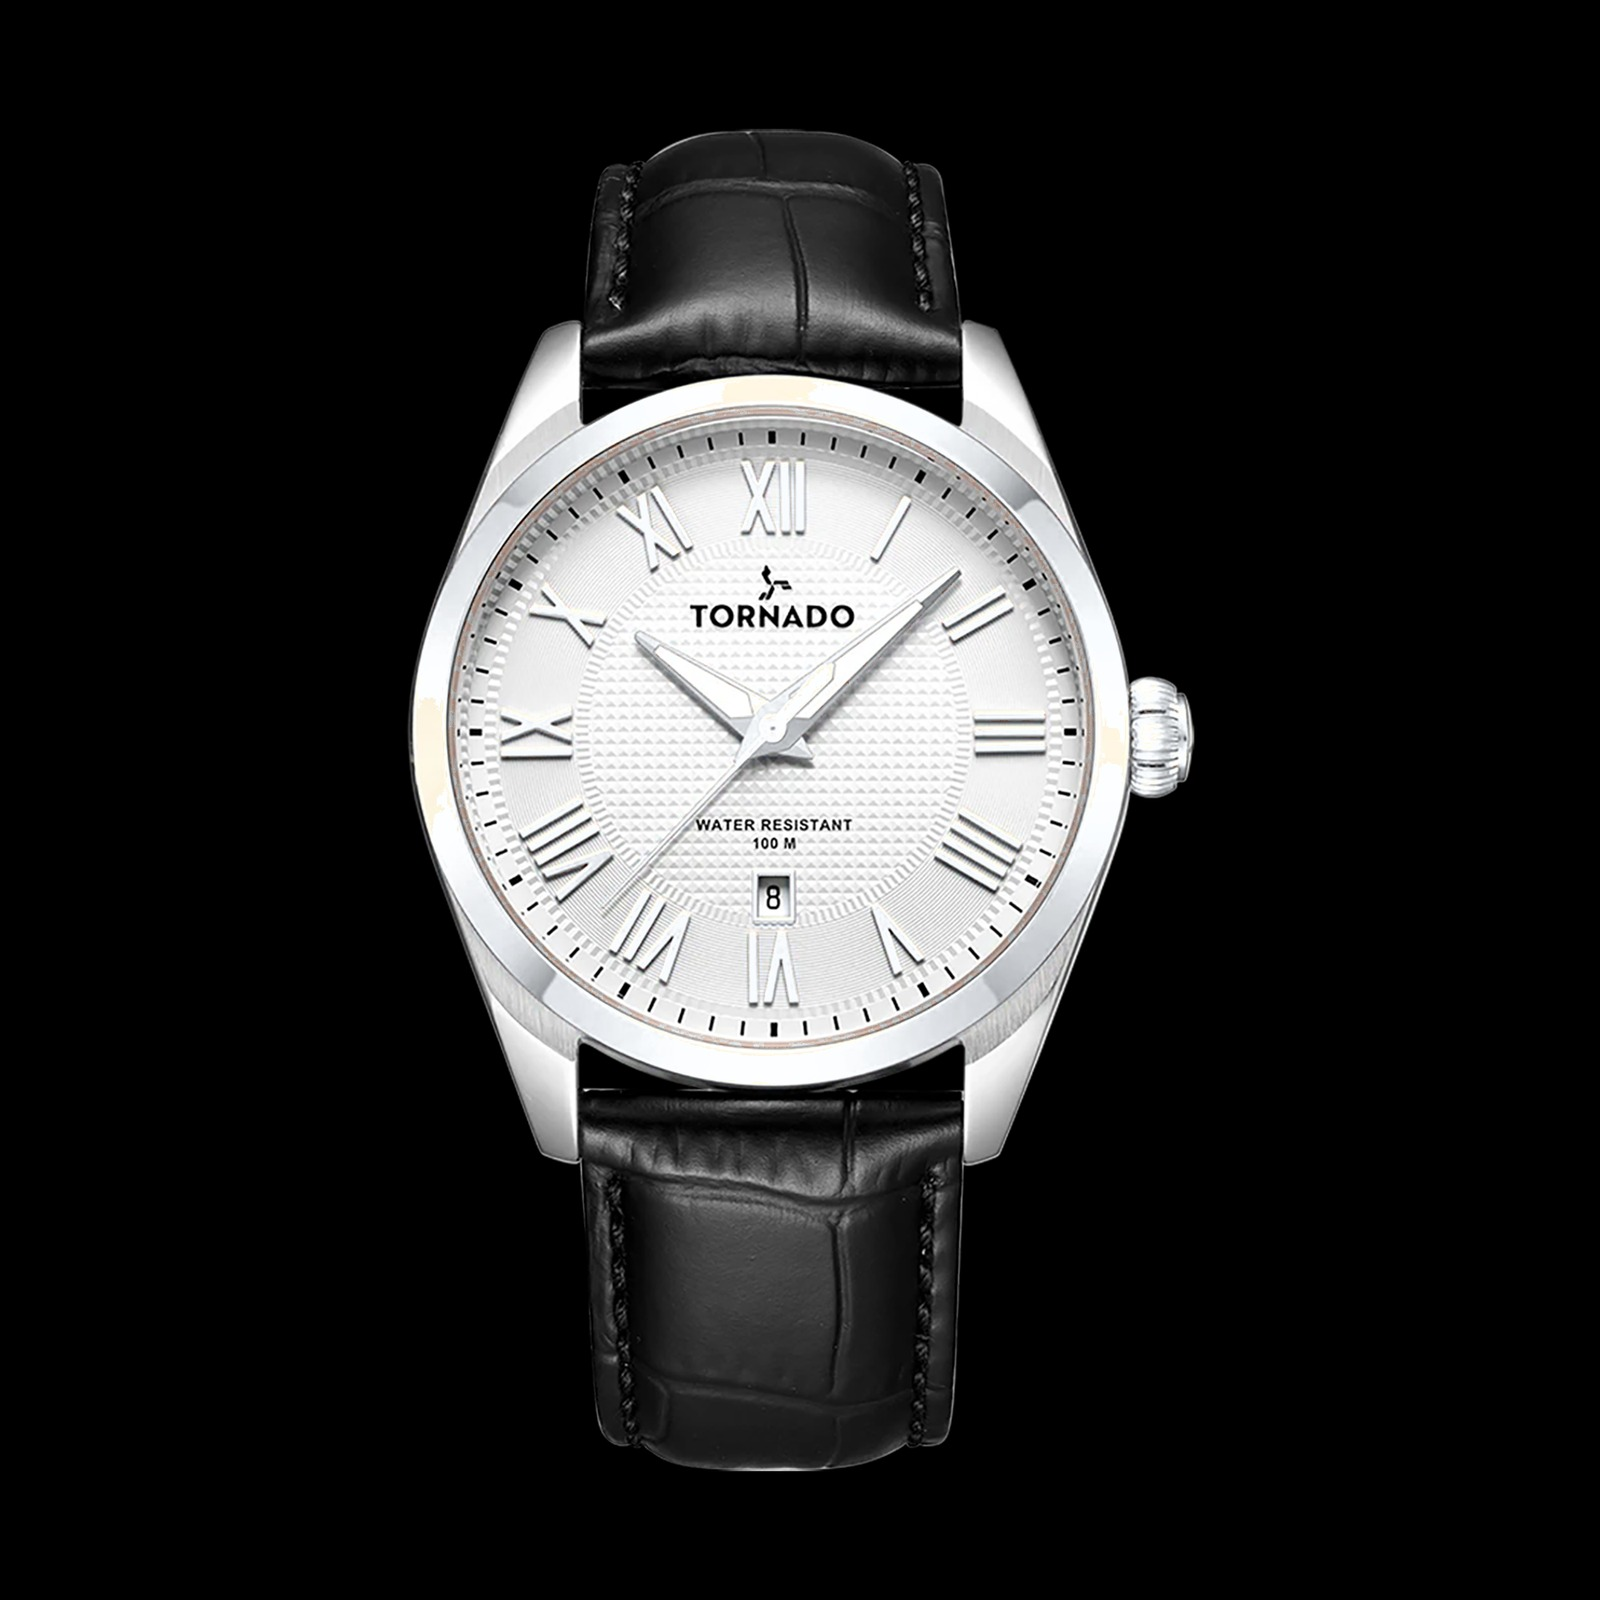
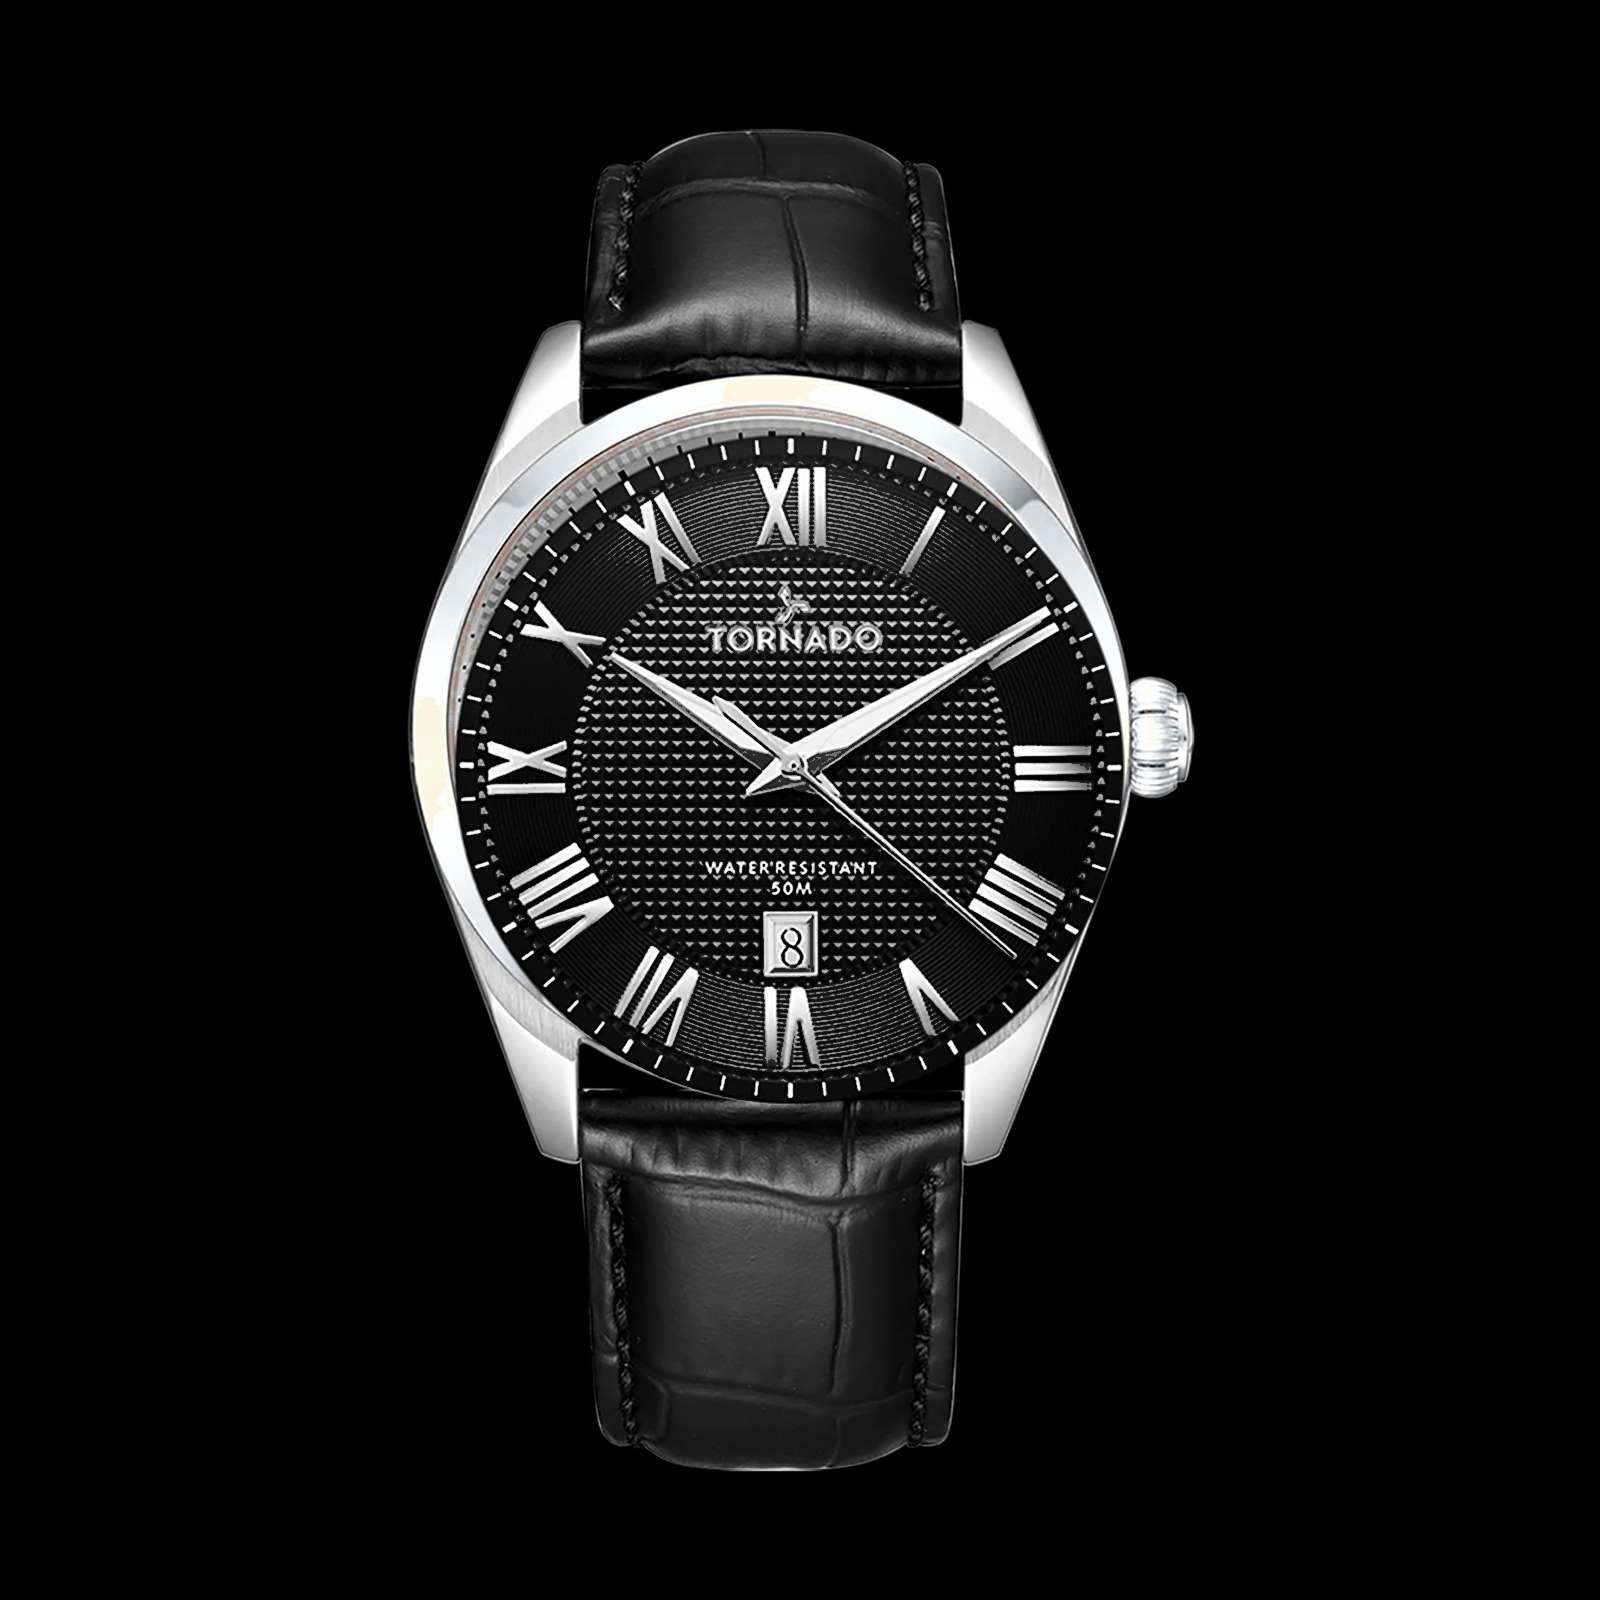
feat: add Casio MTP-1381D-1AV, Citizen Exceed G530, 1 Million, Vulcan Baie, Cyrus Writer; remove Imperial Blue and Asteria; black Tornado dial

Changed region(s): [[0.2812, 0.25, 0.7188, 0.6875]]

diff --git a/content/perfumes.ts b/content/perfumes.ts
@@ -223,19 +223,6 @@ export const perfumes: CollectionItem[] = [
     note: 'Bright and fruity, an easy everyday scent.',
   },
   {
-    name: 'Imperial Blue',
-    brand: 'Riiffs',
-    year: 2021,
-    // Source: https://www.riiffsperfumes.com/product/imperial-blue-2/
-    image: '/images/perfumes/riiffs-imperial-blue.jpg',
-    specs: {
-      Concentration: 'Eau de Parfum',
-      'Top notes': 'Mint, apple, orange blossom',
-      Size: '100ml',
-    },
-    note: 'Cool mint and citrus over a warm, woody base.',
-  },
-  {
     name: 'Flavia Légende',
     brand: 'Armaf',
     year: 2022,
@@ -275,16 +262,42 @@ export const perfumes: CollectionItem[] = [
     note: 'Green and herbal, built for active outdoor days.',
   },
   {
-    name: 'Asteria',
-    brand: 'Velixir',
-    year: 2026,
-    // Source: https://velixirparfums.com/products/velixir-asteria-for-unisex-eau-de-parfum
-    image: '/images/perfumes/velixir-asteria.jpg',
+    name: '1 Million',
+    brand: 'Paco Rabanne',
+    year: 2008,
+    // Source: https://www.rabanne.com/us/en_US/fragrance/p/1-million--000000000065051844
+    image: '/images/perfumes/paco-rabanne-1-million-edt.jpg',
     specs: {
-      Concentration: 'Eau de Parfum',
-      'Top notes': 'Blood orange, mandarin, bergamot',
+      Concentration: 'Eau de Toilette',
+      'Top notes': 'Blood mandarin, peppermint, grapefruit',
       Size: '100ml',
     },
-    note: 'Juicy citrus over creamy tiare flower and soft musk.',
+    note: 'Spicy leather and cinnamon in the famous gold-bar bottle.',
+  },
+  {
+    name: 'Vulcan Baie',
+    brand: 'French Avenue',
+    year: 2025,
+    // Source: https://royalsperfume.com/products/vulcan-baie-by-french-avenue-edp-100ml
+    image: '/images/perfumes/french-avenue-vulcan-baie.jpg',
+    specs: {
+      Concentration: 'Eau de Parfum',
+      'Top notes': 'Blackcurrant, blackberry, bergamot, rosemary',
+      Size: '100ml',
+    },
+    note: 'Juicy berries over sandalwood and musk, the fruity sibling to Vulcan Feu.',
+  },
+  {
+    name: 'Cyrus Writer',
+    brand: 'Paris Bleu',
+    year: 2020,
+    // Source: https://www.parfumoriginale.com/products/paris-bleu-cyrus-writer-eau-de-parfum-pour-homme-100-ml
+    image: '/images/perfumes/paris-bleu-cyrus-writer.jpg',
+    specs: {
+      Concentration: 'Eau de Parfum',
+      'Top notes': 'Green apple, orange, lemon, lavender',
+      Size: '100ml',
+    },
+    note: 'Fresh woody aromatic with a clean ambergris and vetiver base.',
   },
 ]

diff --git a/content/watches.ts b/content/watches.ts
@@ -19,14 +19,15 @@ export const watches: CollectionItem[] = [
     brand: 'Tornado',
     year: 2018,
     // Source: https://tornado.store/products/t8007-slbwg, recolored from the
-    // two-tone gold case shown there to the owner's plain steel case
+    // two-tone gold case shown there to the owner's plain steel case, with the
+    // black dial composited from https://tornado.store/products/t8007-sbsn
     image: '/images/watches/tornado-celestia-classic.jpg',
     specs: {
       Movement: 'Quartz, Miyota 2115',
       Case: '40mm stainless steel',
       'Water resistance': '100m',
     },
-    note: 'White dial, black leather, understated formality.',
+    note: 'Black dial, black leather, understated formality.',
   },
   {
     name: 'Oliver Blue Dial Moonphase (1791302)',
@@ -93,5 +94,32 @@ export const watches: CollectionItem[] = [
       Crystal: 'Mineral',
     },
     note: 'JDM-only from September 1975, near the dawn of quartz.',
+  },
+  {
+    name: 'Enticer Day-Date (MTP-1381D-1AV)',
+    brand: 'Casio',
+    year: 2014,
+    // Source: https://watchclick.com/products/casio-collection-mtp-1381d-1av
+    image: '/images/watches/casio-mtp-1381d-1av.jpg',
+    specs: {
+      Movement: 'Quartz, day-date',
+      Case: '46.6 x 39.9mm stainless steel bracelet',
+      Dial: 'Black',
+      'Water resistance': '50m',
+    },
+    note: 'Black dial with a wide day window, classic everyday steel.',
+  },
+  {
+    name: 'Exceed Eco-Drive Mother of Pearl (G530-T005255)',
+    brand: 'Citizen',
+    year: 2016,
+    // Photo: owner's own watch
+    image: '/images/watches/citizen-exceed-g530-mother-of-pearl.jpg',
+    specs: {
+      Movement: 'Eco-Drive solar, Caliber G530 (±10 sec/year)',
+      Case: 'Stainless steel bracelet',
+      Dial: 'Mother-of-pearl with textured center',
+    },
+    note: 'Light-powered and accurate to seconds a year, with a shimmering pearl dial.',
   },
 ]
